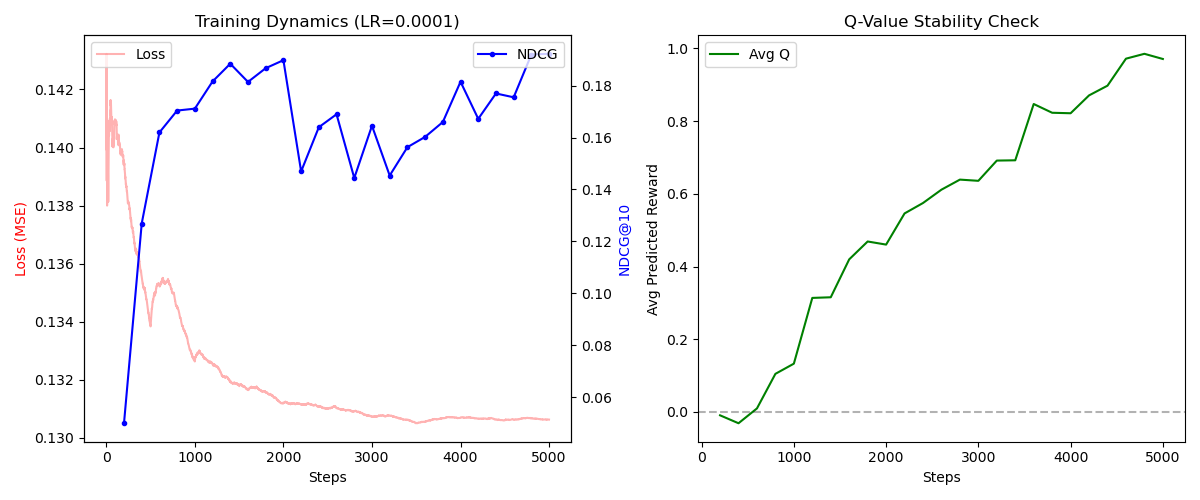
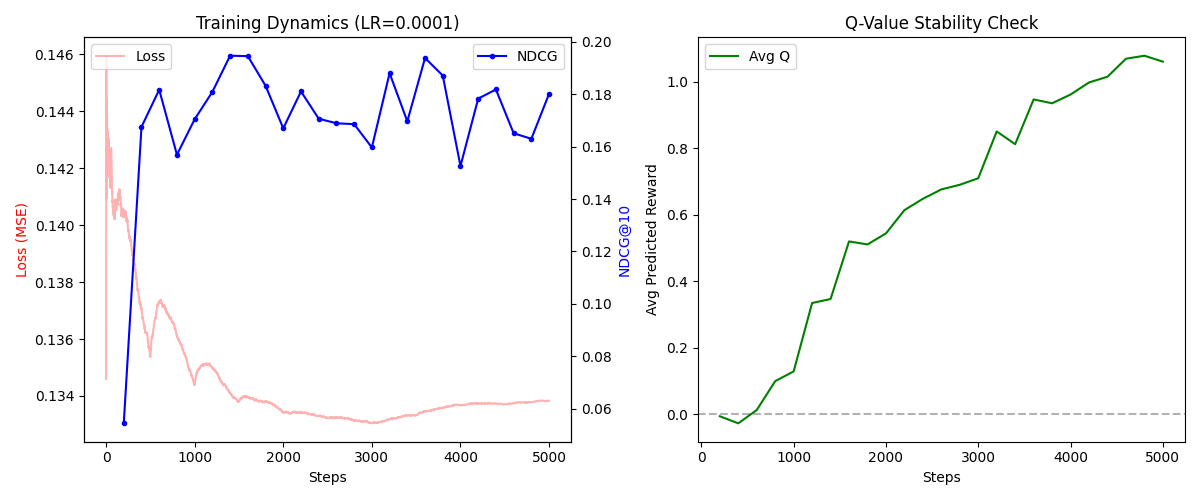
fix evaluation and finetune

diff --git a/src/fine_tune_candidate.py b/src/fine_tune_candidate.py
@@ -18,6 +18,7 @@ from evaluation import prepare_evaluation_data, eval_prcp, make_dqn_recommender
 from utils.collaborative import collaborative_filtering_recommend
 from agent.dqn_agent import DQN
 from agent.ddqn_dueling_model import DuelingDQN
+from agent.gruDQN import GRU_DQN
 
 from utils.hyperparameters import Hyperparameters
 
@@ -101,14 +102,38 @@ def fine_tune():
     
     # SETUP MODEL
     device = torch.device(hp.device if torch.cuda.is_available() else "cpu")
-    if getattr(hp, "use_dueling", False): Net = DuelingDQN
-    else: Net = DQN
-    dqn = Net(num_actions=n_actions, feature_size=state_dim).to(device)
+    # Choose architecture: GRU vs MLP/Dueling
+    if getattr(hp, "use_grudqn", False):
+        Net = GRU_DQN
+        # GRU expects input_dim = single movie feature size
+        try:
+            dqn = Net(num_actions=n_actions, input_dim=feat_dim, hidden_dim=hp.hidden_dim, num_layers=getattr(hp, "gru_num_layers", 1), dropout_rate=hp.dropout_rate).to(device)
+        except TypeError:
+            dqn = Net(num_actions=n_actions, input_dim=feat_dim, hidden_dim=hp.hidden_dim, dropout_rate=hp.dropout_rate).to(device)
+    else:
+        if getattr(hp, "use_dueling", False):
+            Net = DuelingDQN
+        else:
+            Net = DQN
+        # MLP expects flattened state vector size
+        try:
+            dqn = Net(num_actions=n_actions, input_dim=state_dim).to(device)
+        except TypeError:
+            dqn = Net(num_actions=n_actions, feature_size=state_dim).to(device)
     
     if base_model_path.exists():
         state = torch.load(base_model_path, map_location=device)
-        dqn.load_state_dict(state)
-        print(f"Loaded Base Model from {base_model_path}")
+        # checkpoint may be a raw state_dict or a wrapped dict
+        if isinstance(state, dict) and "state_dict" in state:
+            state = state["state_dict"]
+        try:
+            dqn.load_state_dict(state)
+            print(f"Loaded Base Model from {base_model_path}")
+        except Exception as e:
+            print(f"Warning: failed to load checkpoint into chosen architecture: {e}")
+            print("Attempting to load permissively (ignore missing/unexpected keys)...")
+            dqn.load_state_dict(state, strict=False)
+            print(f"Loaded Base Model (with strict=False) from {base_model_path}")
     else:
         print("WARNING: No base model found; training from scratch (Not Recommended).")
 
@@ -172,7 +197,29 @@ def fine_tune():
                 if n != pos and n not in seen_train.get(u, set()) and n not in negs:
                     negs.append(n)
 
-            states.append(user_state.get(u, np.zeros(state_dim, dtype=np.float32)))
+            us = user_state.get(u)
+            if getattr(hp, "use_grudqn", False):
+                if us is None:
+                    s = np.zeros((hp.history_window, feat_dim), dtype=np.float32)
+                else:
+                    arr = np.array(us, dtype=np.float32)
+                    if arr.ndim == 1 and arr.size == state_dim:
+                        s = arr.reshape(hp.history_window, feat_dim)
+                    elif arr.ndim == 2 and arr.shape[0] == hp.history_window and arr.shape[1] == feat_dim:
+                        s = arr
+                    else:
+                        s = arr.reshape(hp.history_window, feat_dim)
+                states.append(s)
+            else:
+                if us is None:
+                    s = np.zeros(state_dim, dtype=np.float32)
+                else:
+                    arr = np.array(us, dtype=np.float32)
+                    if arr.ndim == 2:
+                        s = arr.reshape(-1)
+                    else:
+                        s = arr
+                states.append(s)
             pos_idx.append(pos)
             neg_idx.append(negs)
 

diff --git a/src/evaluation.py b/src/evaluation.py
@@ -299,27 +299,63 @@ def run_evaluation(hp: Hyperparameters, model_path: Path = None, no_plots: bool 
     # Determine Dimensions
     single_movie_dim = data['feat_dim']
     flattened_dim = data['feat_dim'] * hp.history_window
-    
-    if getattr(hp, "use_grudqn", False):
-        print("--- Evaluator: Using GRU Architecture ---")
+
+    # If a checkpoint exists, inspect its keys to auto-detect whether it was
+    # saved from a GRU-based model or from the flattened-MLP DQN. This avoids
+    # loading mismatched state dicts (common when switching architectures).
+    ckpt_is_gru = None
+    state_dict = None
+    if model_path.exists():
+        try:
+            state_dict = torch.load(model_path, map_location=device)
+            # If the saved object is a dict with 'state_dict' key (common), unwrap it
+            if isinstance(state_dict, dict) and "state_dict" in state_dict:
+                state_dict = state_dict["state_dict"]
+        except Exception:
+            state_dict = None
+
+    if state_dict is not None:
+        keys = list(state_dict.keys())
+        # GRU checkpoints include GRU parameters (prefix 'gru') or 'fc_q' head
+        if any(k.startswith("gru.") for k in keys) or any(k.startswith("fc_q.") for k in keys):
+            ckpt_is_gru = True
+        else:
+            # MLP-style DQN has 'out' / 'fc2' / 'fc3' layers in our older implementation
+            if any(k.startswith("out.") or k.startswith("fc2.") or k.startswith("fc3.") for k in keys):
+                ckpt_is_gru = False
+
+    # Decide which Net to instantiate. Preference order:
+    # 1) If checkpoint indicates GRU/MLP -> use that.
+    # 2) Else use hyperparameter flags.
+    if ckpt_is_gru is True:
+        print("--- Evaluator: Detected GRU checkpoint; using GRU architecture ---")
         Net = GRU_DQN
         input_dim = single_movie_dim
-    elif getattr(hp, "use_dueling", False): 
-        Net = DuelingDQN
+    elif ckpt_is_gru is False:
+        print("--- Evaluator: Detected MLP checkpoint; using flattened-MLP architecture ---")
+        # Respect dueling flag if present
+        if getattr(hp, "use_dueling", False):
+            Net = DuelingDQN
+        else:
+            Net = DQN
         input_dim = flattened_dim
-    else: 
-        Net = DQN
-        input_dim = flattened_dim
+    else:
+        # No checkpoint info: fall back to hyperparameters
+        if getattr(hp, "use_grudqn", False):
+            print("--- Evaluator: Using GRU Architecture (from hyperparameters) ---")
+            Net = GRU_DQN
+            input_dim = single_movie_dim
+        else:
+            if getattr(hp, "use_dueling", False):
+                Net = DuelingDQN
+            else:
+                Net = DQN
+            input_dim = flattened_dim
 
-    if getattr(hp, "use_dueling", False): Net = DuelingDQN
-    else: Net = DQN
-
-    state_input_dim = data['feat_dim'] * hp.history_window
-    # dqn = Net(num_actions=data['n_actions'], feature_size=state_input_dim).to(device)
+    # Instantiate model; try common constructor signatures (input_dim vs feature_size)
     try:
         dqn = Net(num_actions=data['n_actions'], input_dim=input_dim).to(device)
     except TypeError:
-        # Fallback for previous version
         dqn = Net(num_actions=data['n_actions'], feature_size=input_dim).to(device)
 
     
